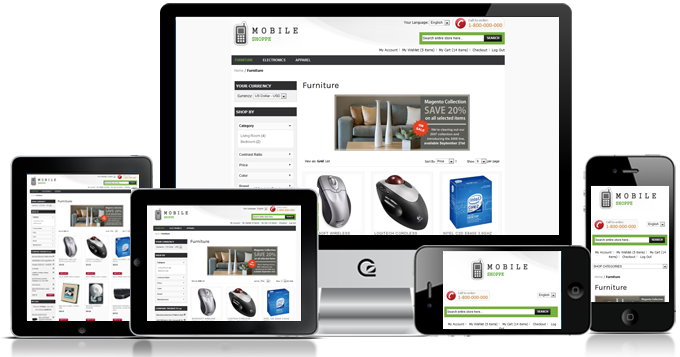
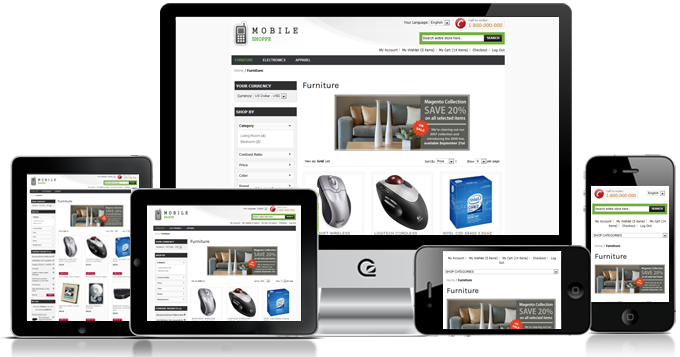
import connect version 1.0.1

Changed region(s): [[0.8647, 0.5238, 0.9882, 0.8627], [0.6485, 0.7087, 0.8338, 0.9244]]

diff --git a/skin/frontend/default/mobileshoppe/css/styles.css b/skin/frontend/default/mobileshoppe/css/styles.css
@@ -820,7 +820,7 @@ tr.summary-details-excluded { font-style:italic; }
     float: left;
     height: 18px;
     margin-top: 5px;
-    width: 215px;
+    width: 200px;
 }
 input.input-text, select, textarea {
     background: none repeat scroll 0 0 #FFFFFF;
@@ -905,7 +905,7 @@ input.input-text, select, textarea {
 
 
 /* Sidebar =============================================================================== */
-.block { margin:18px 0; border: 1px solid #DDDDDD;;}
+.block { margin:0 0 18px 0; border: 1px solid #DDDDDD;;}
 .block:first-child { margin-top: 0;  }
 .block .block-title {   background: none repeat scroll 0 0 #2F2F31;
     border-bottom: 1px solid #DDDDDD;
@@ -1136,7 +1136,14 @@ transition: all 500ms ease-in-out;}
 .faq_banner h1 {font-family: quara-web; font-size:32px;color:#fec00f;margin-left:30px;margin-top:0px;padding-top:15px;font-weight:normal;text-transform:uppercase;}
 .faq_banner p {width:330px;margin-left:30px;color:#cccccc;font-weight:bold;}
 .faq_right h3 {padding-left:25px;font-weight:normal;}
-
+.col-right {
+    float: right;
+}
+ 
+.col3-layout .col-main {float:right;}
+.col3-layout .col-wrapper {float:left;}
+.col3-layout .grid_3 {margin:0;}
+.col3-layout .grid_6 {width:490px;}
 /*left menu */
 
 .faq_accordian .arrowlistmenu{
@@ -2458,6 +2465,7 @@ display: inline-block;
 	.products-grid li.item {width:140px}
 	.cart .discount .discount-form, .cart .shipping .shipping-form {width:210px;}
 	.cart .totals { width:235px !important;}
+	.col3-layout .grid_6 {width: 320px;}
 	
 }
 
@@ -2478,7 +2486,22 @@ px      40    100    160    220    280    */
 	}
 	.row 								{ margin:0 auto; width:300px; overflow:hidden; }
 	.row .row 							{ margin:0; width:auto; display:inline-block; }
-		
+	
+	
+	.col3-layout .grid_1,
+	.col3-layout .grid_2,
+	.col3-layout .grid_3,
+	.col3-layout .grid_4,
+	.col3-layout .grid_5,
+	.col3-layout .grid_6,
+	.col3-layout .grid_7,
+	.col3-layout .grid_8,
+	.col3-layout .grid_9,
+	.col3-layout .grid_10,
+	.col3-layout .grid_11,
+	.col3-layout .grid_12							{ width:280px; margin:10px 0 0 0; overflow:hidden; float:left; display:inline; }	
+	
+	
 	.grid_1,
 	.grid_2,
 	.grid_3,
@@ -2642,6 +2665,19 @@ px      40    100    160    220    280    340                        */
 	}
 	.row 								{ margin:0 auto; width:456px; overflow:hidden; }
 	.row .row 							{ margin:0; width:auto; display:inline-block; }
+	
+	.col3-layout .grid_1,
+	.col3-layout .grid_2,
+	.col3-layout .grid_3,
+	.col3-layout .grid_4,
+	.col3-layout .grid_5,
+	.col3-layout .grid_6,
+	.col3-layout .grid_7,
+	.col3-layout .grid_8,
+	.col3-layout .grid_9,
+	.col3-layout .grid_10,
+	.col3-layout .grid_11,
+	.col3-layout .grid_12 { width:436px; margin:10px 0 0 0; overflow:hidden; float:left; display:inline; }							
 	
 	.grid_1,
 	.grid_2,
